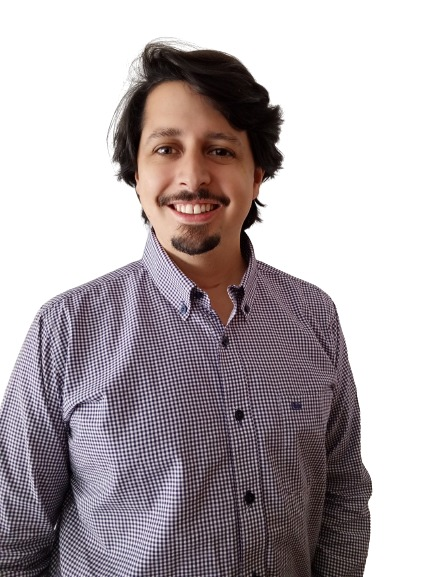
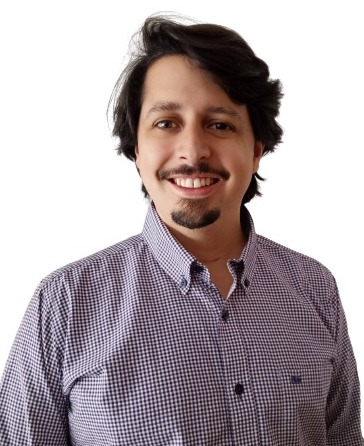
Update templatemo-style.css and index.html to improve image responsiveness and update section titles

diff --git a/index.html b/index.html
@@ -369,8 +369,8 @@
                     <div class="row justify-content-center">
                         <div class="col-md-8 wide-col-laptop">
                             <div class="title-block animate" data-animate="fadeInUp">
-                                <span>TESTIMONIALS</span>
-                                <h2>what THEY SAY?</h2>
+                                <span>CERTIFICATIONS</span>
+                                <h2>What have I achieved?</h2>
                             </div>
                             <div class="col-md-8 offset-md-2">
                                 <div class="testimonials-section">

diff --git a/css/templatemo-style.css b/css/templatemo-style.css
@@ -458,6 +458,8 @@ a#logo {
 .about-img {
   margin: 0 auto 40px;
   position:relative;
+  width: 80%;
+  height: auto;
 }
 .about-img img {
   border-radius: 10px;
